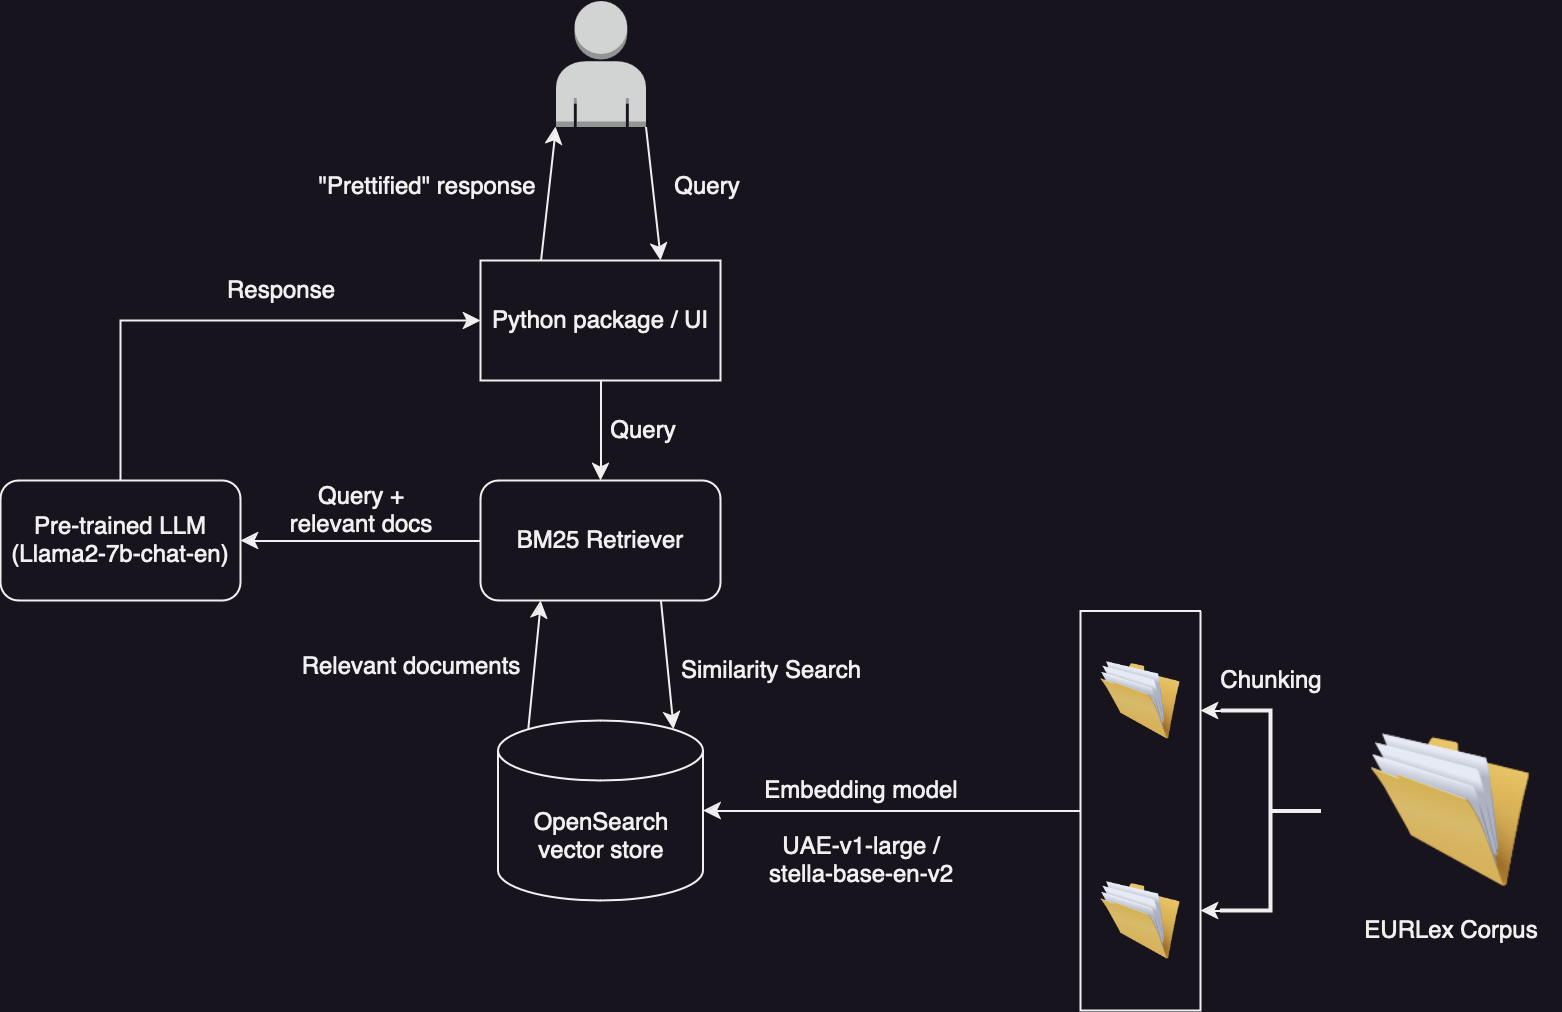
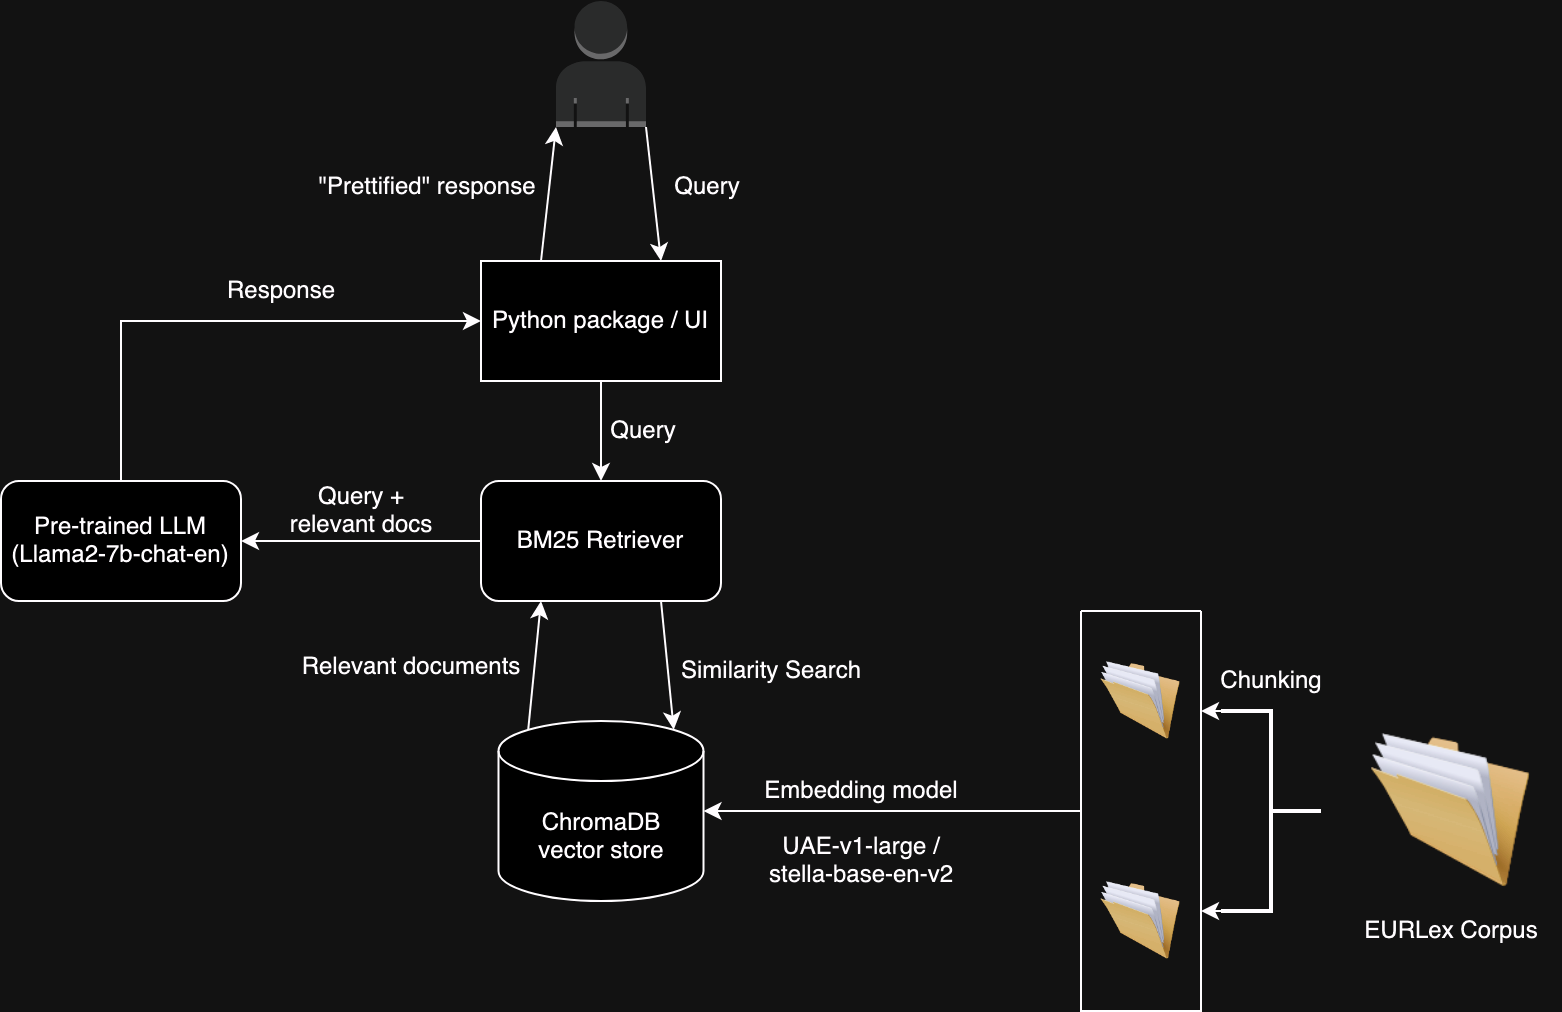
Updated report

diff --git a/DOCUMENTATION.md b/DOCUMENTATION.md
@@ -5,14 +5,15 @@ Team Members:
 Assignment Group 17
 <ul>
 <li>Siddhant Tripathi (siddhant.tripathi@stud.uni-heidelberg.de)</li>
-	Setup the base pipeline for RAG ,to experiment on different configuration, wrote code for different retriever methods and co-authored evaluation pipeline with Kushal Gaywala.
+	Setup the base pipeline for RAG,to experiment on different configuration, wrote code for different retriever methods and co-authored evaluation pipeline with Kushal Gaywala.
 	Added SemanticChunker as one of chunking strategy. Helped with research for embedding models, chunking strategies and Retreiver Models, co-created with Kushal Gaywala Response Dataset to compare with Ground Truth/Gold Data to facilitate evaluation of RAG pipeline.
 <li>Asma Motmem (asma.motmem@stud.uni-heidelberg.de)</li>
+Researched embedding models, evaluated them using various retrieval methods, generated a synthetic dataset for fine-tuning the language model, and assisted teammates in coding, debugging and pair programming.
 <li>Kushal Gaywala (kushal.gaywala@stud.uni-heidelberg.de)</li>
-First, downloaded the csv files from the EUR-lex [website](https://eur-lex.europa.eu/homepage.html), then helped Mohit Shreshtha with the fetching and pre-processing part. Second, set up of the project's structure. Third, created a module for different splitters implemented in <a href"https://www.llamaindex.ai/">LlamaIndex</a>. Fourth, merged different modules created by different members into a single evaluation pipeline. Fifth, created the command prompt client for normal user use mentioned in <a href"https://github.com/mmshress/INLP-WS23/blob/project_report/README.md">README</a>. Sixth, completed evaluations, collected metrics with Siddhant Tripathi. Seventh, created different plots that should be used for analysis, to decide a configuration to be used for final application.
+First, downloaded the csv files from the EUR-lex [website](https://eur-lex.europa.eu/homepage.html), then helped Mohit Shrestha with the fetching and pre-processing part. Second, set up of the project's structure. Third, created a module for different splitters implemented in <a href="https://www.llamaindex.ai/">LlamaIndex</a>. Fourth, merged different modules created by different members into a single evaluation pipeline. Fifth, created the command prompt client for normal user use mentioned in <a href="https://github.com/mmshress/INLP-WS23/blob/project_report/README.md">README</a>. Sixth, completed evaluations, collected metrics with Siddhant Tripathi. Seventh, created different plots that should be used for analysis, to decide a configuration to be used for final application.
 <li>Mohit Shrestha (mohit.shrestha@stud.uni-heidelberg.de)</li>
-Setup the fetching and pre-processing pipelines for the EUR-Lex corpus, setup the Docker compose files for the OpenSearch vector store,
-initial LlamaIndex orchestration, wrote the bulk of the code for indexing and interfacing with the OpenSearch vector store, helped with research for
+Setup the fetching and pre-processing pipelines for the EUR-Lex corpus, setup the Docker compose files for our initial idea of having an OpenSearch vector store (later pivoted to ChromaDB),
+initial LlamaIndex orchestration, wrote the bulk of the code for indexing and interfacing with the OpenSearch/ChromaDB vector stores, helped with research for
 proper embedding models and chunking strategies, created synthetic dataset of question/answer/context triplets for evaluation of RAG pipeline along with engineering the prompt for the same,
 general refactoring of the codebase, editing of the majority of the project report
 </ul>
@@ -60,11 +61,11 @@ Next level is Recursive Character Text Splitter where  the text is recursively d
 
 The Sentence Splitter (third level), featured also in [the llama_index.core.node_parser module](#LlamaDocs), endeavors to segment text by adhering to sentence boundaries. Unlike the Token Text Splitter, this class prioritizes keeping sentences and paragraphs intact, reducing the likelihood of incomplete or dangling sentences at the end of each node chunk.
 
-The final chunking method is implemented as the SemanticChunker within the LlamaIndex module, aims to extract semantic meaning from embeddings and evaluate the semantic relationships between these chunks. The fundamental concept revolves around grouping together chunks that share semantic similarity. Unlike fixed-size chunking methods, the semantic splitter dynamically selects breakpoints between sentences based on embedding similarity. This guarantees that a "chunk" comprises sentences that share semantic relevance with one another.[https://docs.llamaindex.ai/en/stable/examples/node_parsers/semantic_chunking.html]
+The final chunking method is implemented as the SemanticChunker within the LlamaIndex module, aims to extract semantic meaning from embeddings and evaluate the semantic relationships between these chunks. The fundamental concept revolves around grouping together chunks that share semantic similarity. Unlike fixed-size chunking methods, the semantic splitter dynamically selects breakpoints between sentences based on embedding similarity. This guarantees that a "chunk" comprises sentences that share semantic relevance with one another.
 
 To use this method, an instance of the SemanticChunker is created with an embedding model and incorporated into the [LangchainNodeParser](#LangchainDocs).
 
-After the chunking of the documents are done, the next step is to create the vector embeddings for the embeddings and store them. As our vector store, we are using a locally hosted instance of OpenSearch, orchestrated using a Docker Compose file. The embedding models we have used are:
+After the chunking of the documents are done, the next step is to create the vector embeddings for the embeddings and store them. As our vector store, we initially used a locally hosted instance of OpenSearch, orchestrated using a Docker Compose file. However, later we pivoted to a ChromaDB vector store instead, after finding out that this would be more suited to our needs. The embedding models we have used are:
 
 Text embedding "UAE-v1-large"  is better for tasks that involve understanding the meaning of text, which is important for large language models. Current models struggle with a common issue called vanishing gradients, mainly because of how they use the cosine function in their optimization process. but "UAE-v1-large" overcome this problem [Li 2023](#Li2023).
 
@@ -72,10 +73,10 @@ The stella V2 embedding model, recently open-sourced on October 19 2023, offers 
 
 The key difference between the two models is the architecture such that "UAE-v1-large" is  described as an angle-optimized text embedding model focusing on mitigating the adverse effects of the cosine saturation zone. Stella V2, on the other hand, is a general-purpose text encoding model with various main models, building on the stella model by using more training data and incorporating methods like knowledge distillation.
 
-After the embeddings are created and stored in our vector database, the next step is to use a retriever model to interface with the user query, and then provide the query along with the relevant documents from a vector database to the QueryEngine for question answering. The retriever forwards the query and the relevant docs from the similarity search, and then the LLM generates the final answer to be given back to the user. For this we use three different types of retriever model. Firstly, the well-known [BM25](#BM25) keyword based retriever model provided out of the box by LlamaIndex. Secondly, a VectorStoreRetriever model, which is a lightweight wrapper around the vector database class to make it conform to the retriever interface. It uses the search methods implemented by a vector store, like similarity search to retrieve topK similar documents. At the core of VectorStoreRetriever model is a embedding model, which is use to embed the chunks into vectors and then these embedding as stored in vector database. VectoreStoreRetrieval models are also known as DenseRetrieval models as they are based on dense vectors.Finally, we use FusionRetriever model, which combines both keyword and vectorstore retriver models. The topK documents retrieved by both the retriever models are reranked through Reciprocal Rank Fusion (RRF), a technique for combining the ranks of multiple search
+After the embeddings are created and stored in our vector database, the next step is to use a retriever model to interface with the user query, and then provide the query along with the relevant documents from a vector database to the QueryEngine for question answering. The retriever forwards the query and the relevant docs from the similarity search, and then the LLM generates the final answer to be given back to the user. For this we use three different types of retriever models. Firstly, the well-known [BM25](#BM25) keyword based retriever model provided out of the box by LlamaIndex. Secondly, a VectorStoreRetriever model, which is a lightweight wrapper around the vector database class to make it conform to the retriever interface. It uses the search methods implemented by a vector store, like similarity search to retrieve topK similar documents. At the core of VectorStoreRetriever model is an embedding model, which is used to embed the chunks into vectors and then these embeddings are stored in vector database. VectorStoreRetrieval models are also known as DenseRetrieval models as they are based on dense vectors. Finally, we use FusionRetriever model, which combines both keyword and vectorstore retriever models. The topK documents retrieved by both the retriever models are re-ranked through Reciprocal Rank Fusion (RRF), a technique for combining the ranks of multiple search
 result lists to produce a single, unified ranking. [Cormack et al., 2009](#RRF).
 
-The final step for RAG pipeline is a QueryEngine which is responsible for querying, which is in our a RetrieverQueryEngine. A RetrieverQueryEngine as it's name suggest, build on top on of a retriver and feeds the llm the query and retrieved document as context to LLM and returns a response based on the infromation provided.
+The final step for RAG pipeline is a QueryEngine which is responsible for querying, which is in our a RetrieverQueryEngine. A RetrieverQueryEngine as it's name suggest, built on top on of a retriever and feeds the llm the query and retrieved document as context to LLM and returns a response based on the information provided.
 
 <h2>Experimental Setup and Details</h2>
 <h3>Test Data</h3>
